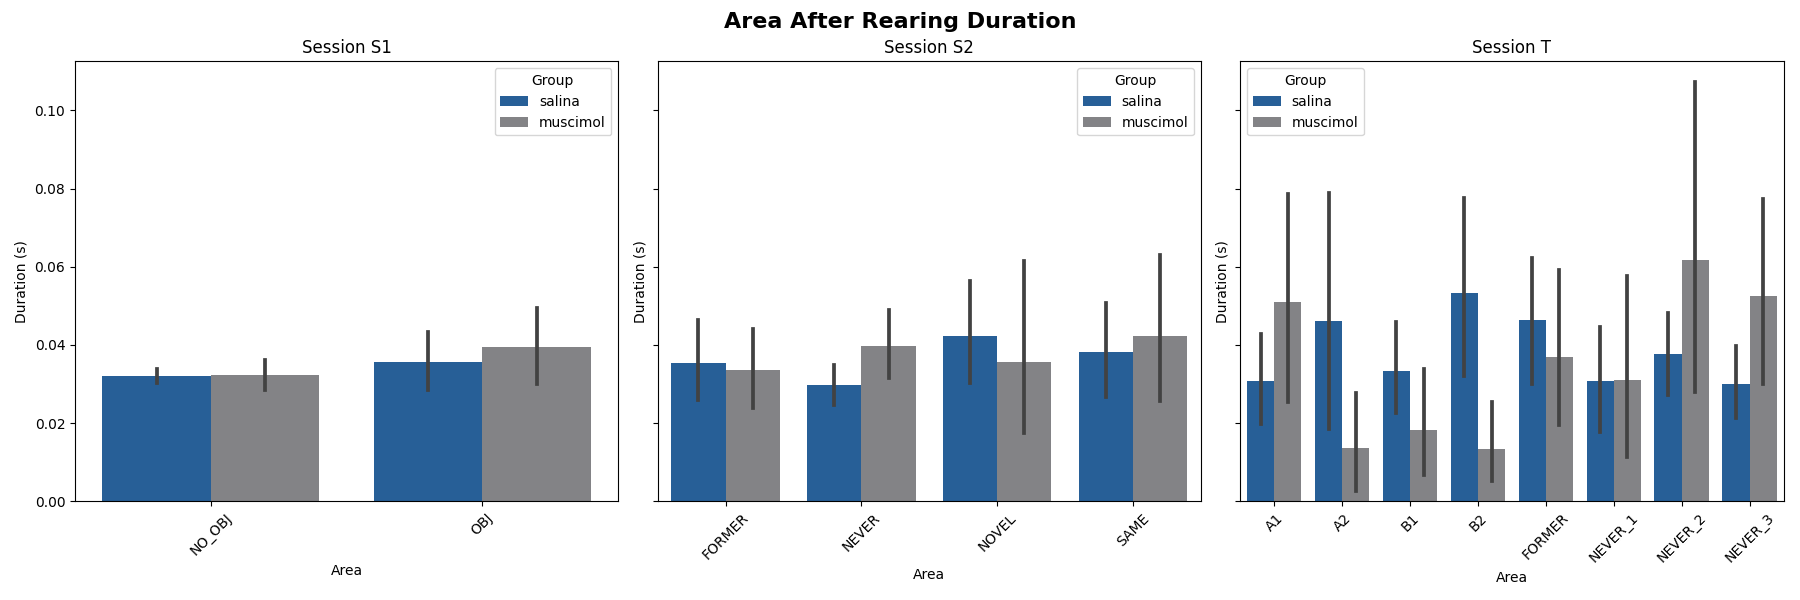
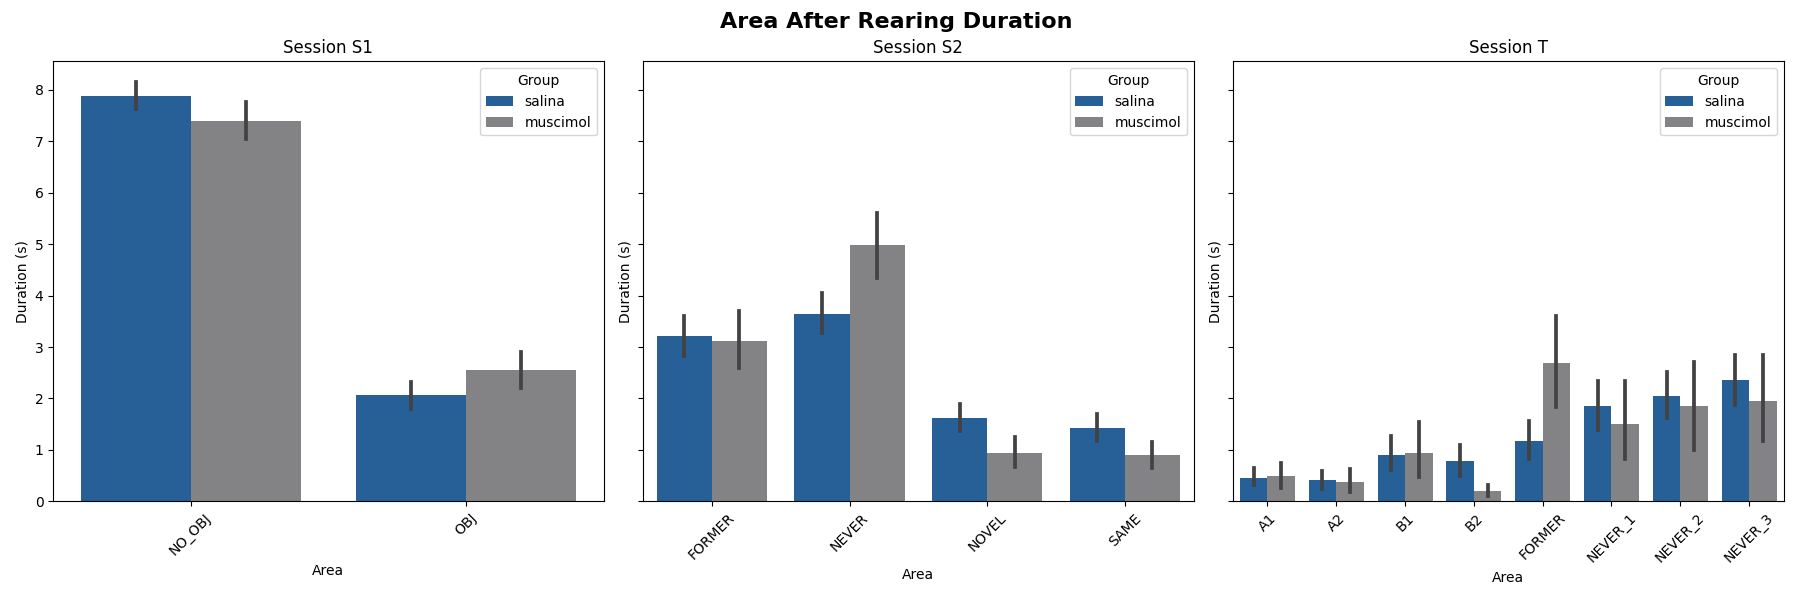
normalize

diff --git a/scripts/rearing_zone/rearing_zone.py b/scripts/rearing_zone/rearing_zone.py
@@ -3,34 +3,48 @@ import pandas as pd
 import numpy as np
 import matplotlib.pyplot as plt
 import seaborn as sns
-from scripts.utils import load_data, get_area_and_direction_columns, fig_path, session_types, get_rearing, groups, group_areas_and_directions
+from scripts.utils import (
+    load_data,
+    get_area_and_direction_columns,
+    fig_path,
+    session_types,
+    get_rearing,
+    groups,
+    group_areas_and_directions,
+)
 from scripts.rearing_zone.plots import (
-    plot_rearing_episode, plot_mean_duration, plot_sum_duration, plot_total_episodes, 
-    plot_area_during_rearing_counts, plot_area_during_rearing_mean_duration, 
-    plot_area_after_rearing_durations
+    plot_rearing_episode,
+    plot_mean_duration,
+    plot_sum_duration,
+    plot_total_episodes,
+    plot_area_during_rearing_counts,
+    plot_area_during_rearing_mean_duration,
+    plot_area_after_rearing_durations,
 )
 
 fps = 30
-after_rearing_window_start = 2 # seconds
-after_rearing_window_time = 10 # seconds
+after_rearing_window_start = 2  # seconds
+after_rearing_window_time = 10  # seconds
+repeat_rearing_time_allowance = 1  # seconds
+
 
 def calculate_durations(video_df):
-    video_df = video_df.sort_values('frame').reset_index(drop=True)
-    session_type = video_df['session'].iloc[0]
+    video_df = video_df.sort_values("frame").reset_index(drop=True)
+    session_type = video_df["session"].iloc[0]
     video_df, area_columns, direction_columns = group_areas_and_directions(video_df, session_type)
-    rearing = video_df['rearing'].values
-    
+    rearing = video_df["rearing"].values
+
     diff = np.diff(rearing, prepend=0)
     starts = np.where(diff == 1)[0]
     ends = np.where(diff == -1)[0]
-    
+
     if len(starts) == 0 or len(ends) == 0:
         return None
 
     if len(starts) != len(ends):
         # Rearing não terminou
         ends = np.append(ends, len(rearing))
-    
+
     valid_mask = (ends - starts) > 2
     starts = starts[valid_mask]
     ends = ends[valid_mask]
@@ -38,14 +52,14 @@ def calculate_durations(video_df):
         return None
 
     total_area_durations = video_df[area_columns].sum() / fps
-    
+
     total_episodes = len(starts)
     durations = (ends - starts) / fps
 
     area_during_rearing = []
     # area_during_rearing_ratio = []
     for start, end in zip(starts, ends):
-        episode_areas = video_df.loc[start:end-1, area_columns]
+        episode_areas = video_df.loc[start : end - 1, area_columns]
         area_sums = episode_areas.sum()
         most_prominent_area = area_sums.idxmax()
         area_during_rearing.append(most_prominent_area)
@@ -54,11 +68,16 @@ def calculate_durations(video_df):
         # area_during_rearing_ratio.append(most_prominent_area_ratio)
     area_during_rearing = np.array(area_during_rearing)
     area_during_rearing_counts = pd.Series(area_during_rearing).value_counts()
-    
-    df_areas_during_rearing_durations = pd.DataFrame({'area': area_during_rearing, 'duration': durations})
-    area_during_rearing_mean_duration = df_areas_during_rearing_durations.groupby('area')['duration'].mean()
-    df_areas_during_rearing_durations_normalized = pd.DataFrame({'area': area_during_rearing, 'duration': durations / total_area_durations[area_during_rearing]})
-    area_during_rearing_mean_duration_normalized = df_areas_during_rearing_durations_normalized.groupby('area')['duration'].mean()
+
+    df_areas_during_rearing_durations = pd.DataFrame({"area": area_during_rearing, "duration": durations})
+    area_during_rearing_mean_duration = df_areas_during_rearing_durations.groupby("area")["duration"].mean()
+    df_areas_during_rearing_durations_normalized = pd.DataFrame(
+        {
+            "area": area_during_rearing,
+            "duration": durations.copy() / total_area_durations[area_during_rearing],
+        }
+    )
+    area_during_rearing_mean_duration_normalized = df_areas_during_rearing_durations_normalized.groupby("area")["duration"].mean()
 
     after_rearing_window_start_frames = after_rearing_window_start * fps
     after_rearing_window_frames = after_rearing_window_time * fps
@@ -70,7 +89,7 @@ def calculate_durations(video_df):
         next_starts = starts[starts >= window_start]
         if window_end > len(video_df):
             continue
-        if len(next_starts) == 0 or next_starts[0] >= window_end:
+        if len(next_starts) == 0 or next_starts[0] >= window_start + (repeat_rearing_time_allowance * fps):
             valid_rearing_ends.append(end)
     valid_rearing_ends = np.array(valid_rearing_ends)
 
@@ -78,16 +97,16 @@ def calculate_durations(video_df):
     for end in valid_rearing_ends:
         window_start = end + after_rearing_window_start_frames
         window_end = window_start + after_rearing_window_frames
-        window_areas = video_df.loc[window_start:window_end-1, area_columns]
+        window_areas = video_df.loc[window_start : window_end - 1, area_columns]
         area_sums = window_areas.sum()
         after_rearing_area_sums.append(area_sums)
-    
+
     if len(after_rearing_area_sums) > 0:
         area_after_rearing_durations = pd.DataFrame(after_rearing_area_sums) / fps
         area_after_rearing_durations_normalized = (pd.DataFrame(after_rearing_area_sums) / fps) / total_area_durations
     else:
         area_after_rearing_durations = pd.DataFrame(dtype=float)
-
+        area_after_rearing_durations_normalized = pd.DataFrame(dtype=float)
 
     return (
         np.mean(durations),
@@ -98,46 +117,62 @@ def calculate_durations(video_df):
         area_during_rearing_mean_duration_normalized,
         area_after_rearing_durations,
         area_after_rearing_durations_normalized,
-        rearing
+        rearing,
     )
-    
+
+
 def process_video(group_df):
     result = calculate_durations(group_df)
 
     if result is None:
         return None
-    
-    mean_dur, sum_dur, total_episodes, area_during_rearing_counts, area_during_rearing_mean_duration, area_after_rearing_durations, rearing_arr = result
-    return pd.Series({
-        'mean_duration': mean_dur,
-        'sum_duration': sum_dur,
-        'total_episodes': total_episodes,
-        'area_during_rearing_counts': area_during_rearing_counts,
-        'area_during_rearing_mean_duration': area_during_rearing_mean_duration,
-        'area_after_rearing_durations': area_after_rearing_durations,
-        'rearing_array': rearing_arr
-    })
-    
+
+    (
+        mean_dur,
+        sum_dur,
+        total_episodes,
+        area_during_rearing_counts,
+        area_during_rearing_mean_duration,
+        area_during_rearing_mean_duration_normalized,
+        area_after_rearing_durations,
+        area_after_rearing_durations_normalized,
+        rearing_arr,
+    ) = result
+    return pd.Series(
+        {
+            "mean_duration": mean_dur,
+            "sum_duration": sum_dur,
+            "total_episodes": total_episodes,
+            "area_during_rearing_counts": area_during_rearing_counts,
+            "area_during_rearing_mean_duration": area_during_rearing_mean_duration,
+            "area_during_rearing_mean_duration_normalized": area_during_rearing_mean_duration_normalized,
+            "area_after_rearing_durations": area_after_rearing_durations,
+            "area_after_rearing_durations_normalized": area_after_rearing_durations_normalized,
+            "rearing_array": rearing_arr,
+        }
+    )
+
 
 def main():
     df = load_data()
 
-    result = df.groupby(['session', 'group', 'video'], group_keys=False).apply(
-        process_video, include_groups=True
-    ).reset_index()
-    
+    result = df.groupby(["session", "group", "video"], group_keys=False).apply(process_video, include_groups=True).reset_index()
+
     result = result.dropna()
-    for idx in result.index:
-        video_name = result.loc[idx, 'video']
-        rearing = result.loc[idx, 'rearing_array']
-        plot_rearing_episode(video_name, rearing)
-    
+    # for idx in result.index:
+    #     video_name = result.loc[idx, "video"]
+    #     rearing = result.loc[idx, "rearing_array"]
+    #     plot_rearing_episode(video_name, rearing)
+
     plot_mean_duration(result)
     plot_sum_duration(result)
     plot_total_episodes(result)
     plot_area_during_rearing_counts(result)
     plot_area_during_rearing_mean_duration(result)
     plot_area_after_rearing_durations(result)
-    
-if __name__ == '__main__':
+    plot_area_during_rearing_mean_duration(result, normalized=True)
+    plot_area_after_rearing_durations(result, normalized=True)
+
+
+if __name__ == "__main__":
     main()

diff --git a/scripts/rearing_zone/plots.py b/scripts/rearing_zone/plots.py
@@ -91,14 +91,15 @@ def plot_area_during_rearing_counts(data):
             ax.legend(title='Group')
     
     plt.tight_layout(rect=[0, 0, 1, 0.96])
-    fig.suptitle('Most Prominent Area During Rearing Counts', fontsize=16, fontweight='bold', y=0.98)
+    fig.suptitle('Area During Rearing Counts', fontsize=16, fontweight='bold', y=0.98)
     plt.savefig(os.path.join(base_fig_path, 'area_during_rearing_counts.png'))
     plt.close()
 
-def plot_area_during_rearing_mean_duration(data):
+def plot_area_during_rearing_mean_duration(data, normalized=False):
+    normalized_suffix = "_normalized" if normalized else ""
     plot_data = []
     for _, row in data.iterrows():
-        area_mean_durations = row['area_during_rearing_mean_duration']
+        area_mean_durations = row[f'area_during_rearing_mean_duration{normalized_suffix}']
         for area, mean_duration in area_mean_durations.items():
             plot_data.append({'session': row['session'], 'group': row['group'], 'area': area, 'mean_duration': mean_duration})
     
@@ -123,14 +124,15 @@ def plot_area_during_rearing_mean_duration(data):
             ax.legend(title='Group')
     
     plt.tight_layout(rect=[0, 0, 1, 0.96])
-    fig.suptitle('Most Prominent Area During Rearing Mean Duration', fontsize=16, fontweight='bold', y=0.98)
-    plt.savefig(os.path.join(base_fig_path, 'area_during_rearing_mean_duration.png'))
+    fig.suptitle(f'Area During Rearing Duration {"Normalized" if normalized else ""}', fontsize=16, fontweight='bold', y=0.98)
+    plt.savefig(os.path.join(base_fig_path, f'area_during_rearing_mean_duration{normalized_suffix}.png'))
     plt.close()
 
-def plot_area_after_rearing_durations(data):
+def plot_area_after_rearing_durations(data, normalized=False):
+    normalized_suffix = "_normalized" if normalized else ""
     plot_data = []
     for _, row in data.iterrows():
-        area_durations = row['area_after_rearing_durations']
+        area_durations = row[f'area_after_rearing_durations{normalized_suffix}']
         for area in area_durations.columns:
             durations = area_durations[area].values
             for duration in durations:
@@ -156,7 +158,7 @@ def plot_area_after_rearing_durations(data):
             ax.legend(title='Group')
 
     plt.tight_layout(rect=[0, 0, 1, 0.96])
-    fig.suptitle('Area After Rearing Duration', fontsize=16, fontweight='bold', y=0.98)
-    plt.savefig(os.path.join(base_fig_path, 'area_after_rearing_durations.png'))
+    fig.suptitle(f'Area After Rearing Duration {"Normalized" if normalized else ""}', fontsize=16, fontweight='bold', y=0.98)
+    plt.savefig(os.path.join(base_fig_path, f'area_after_rearing_durations{normalized_suffix}.png'))
     plt.close()
 
